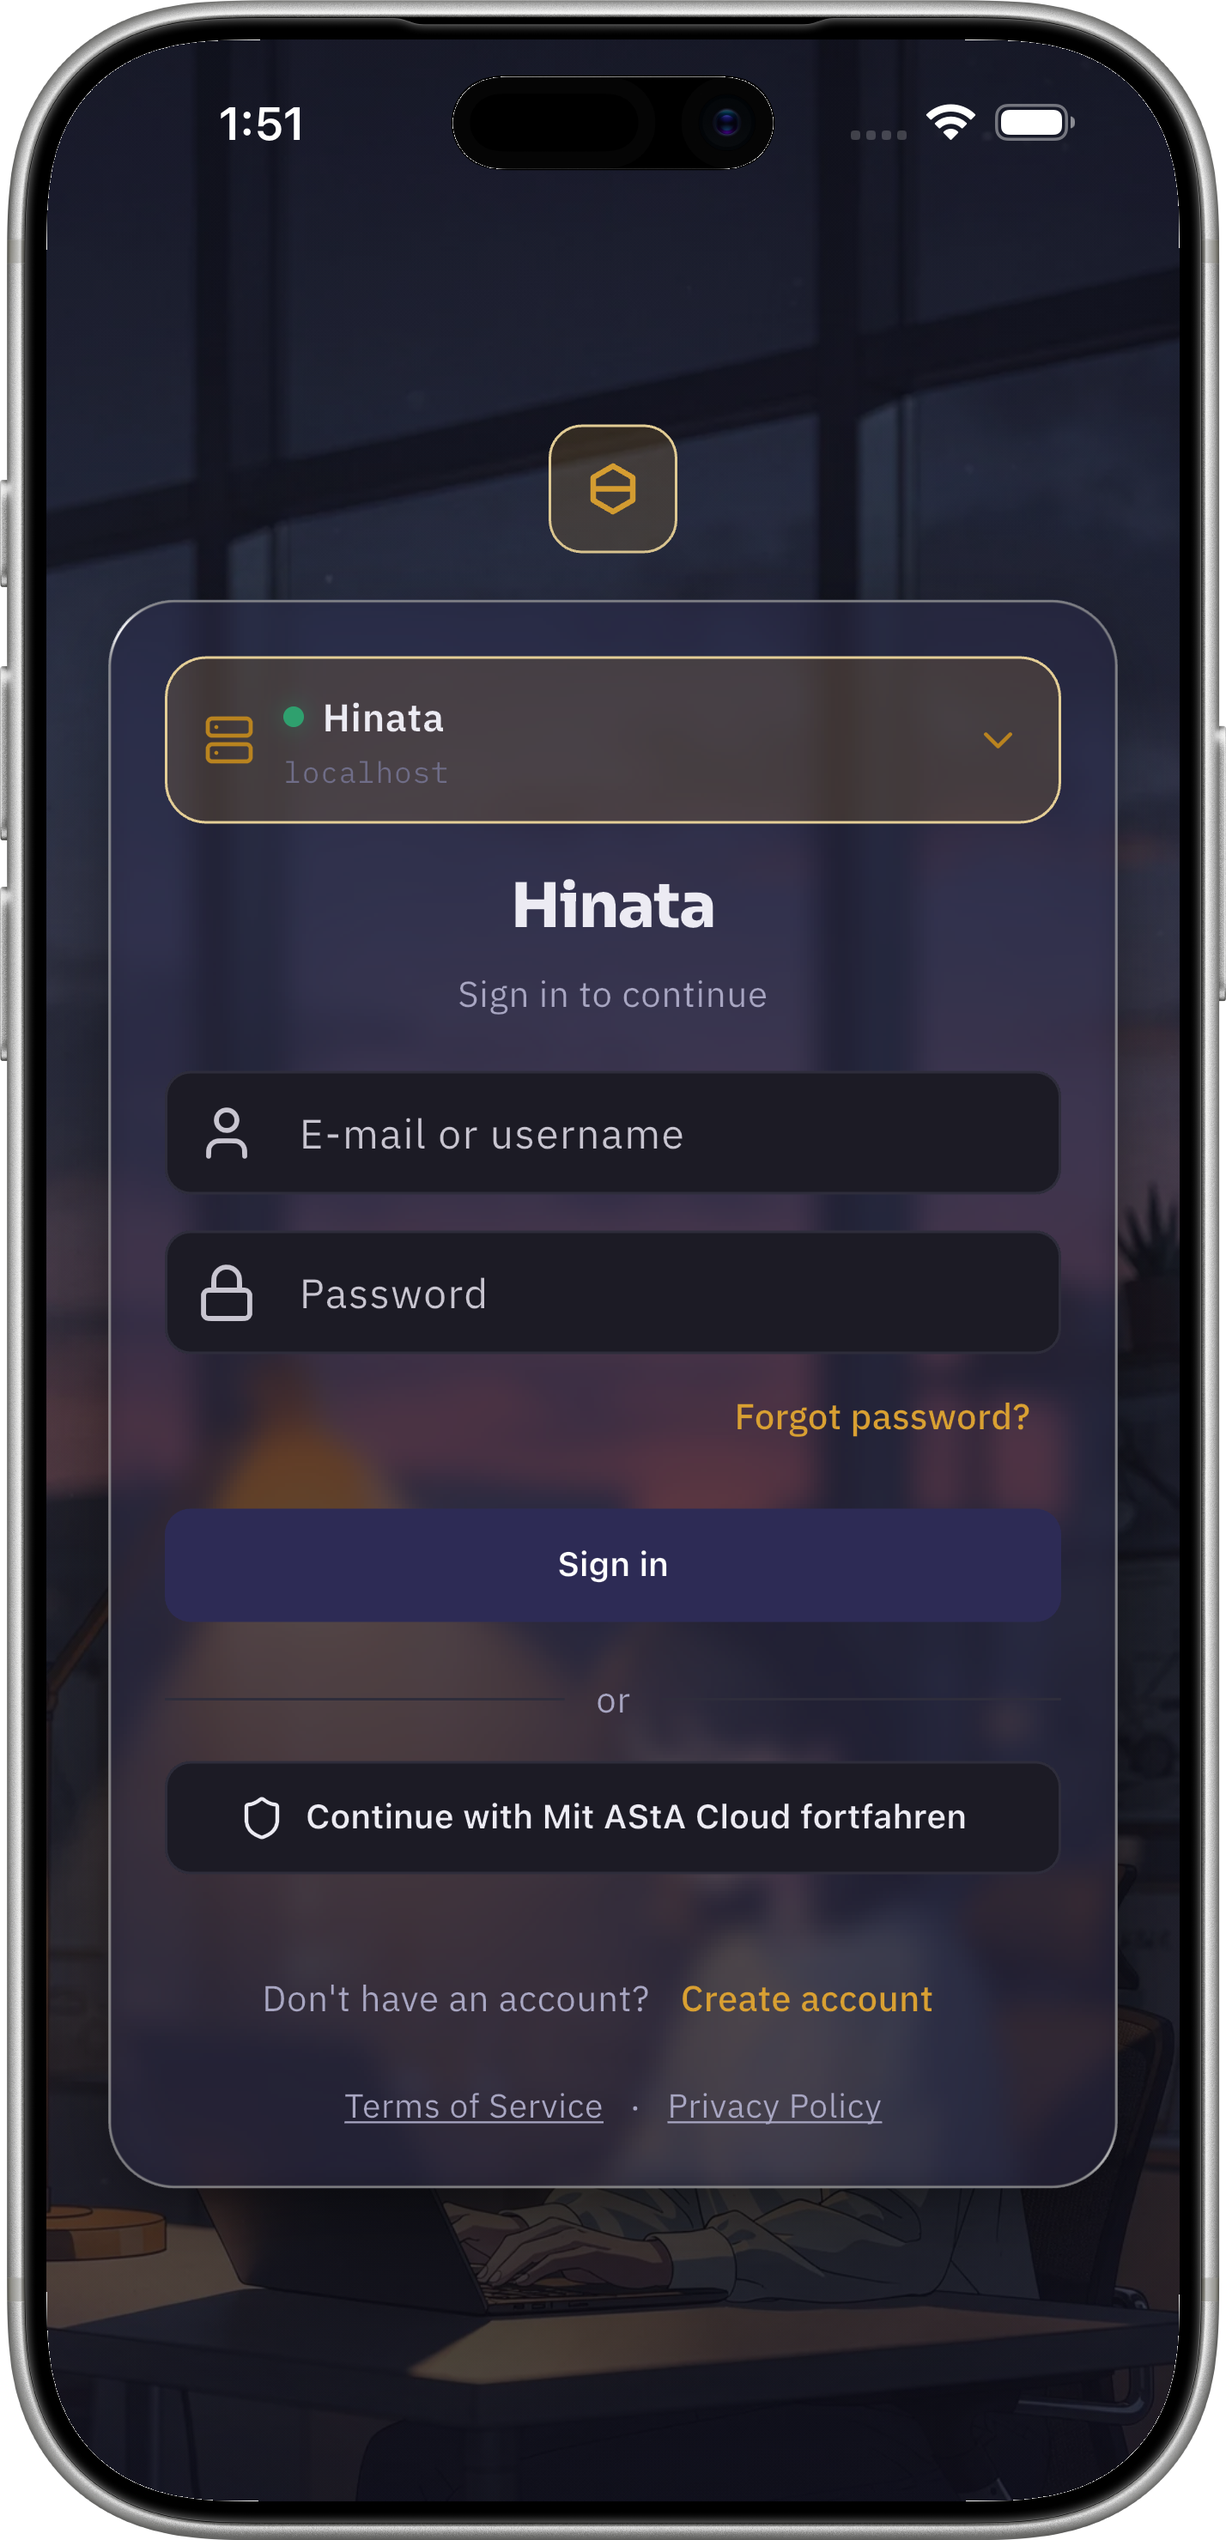
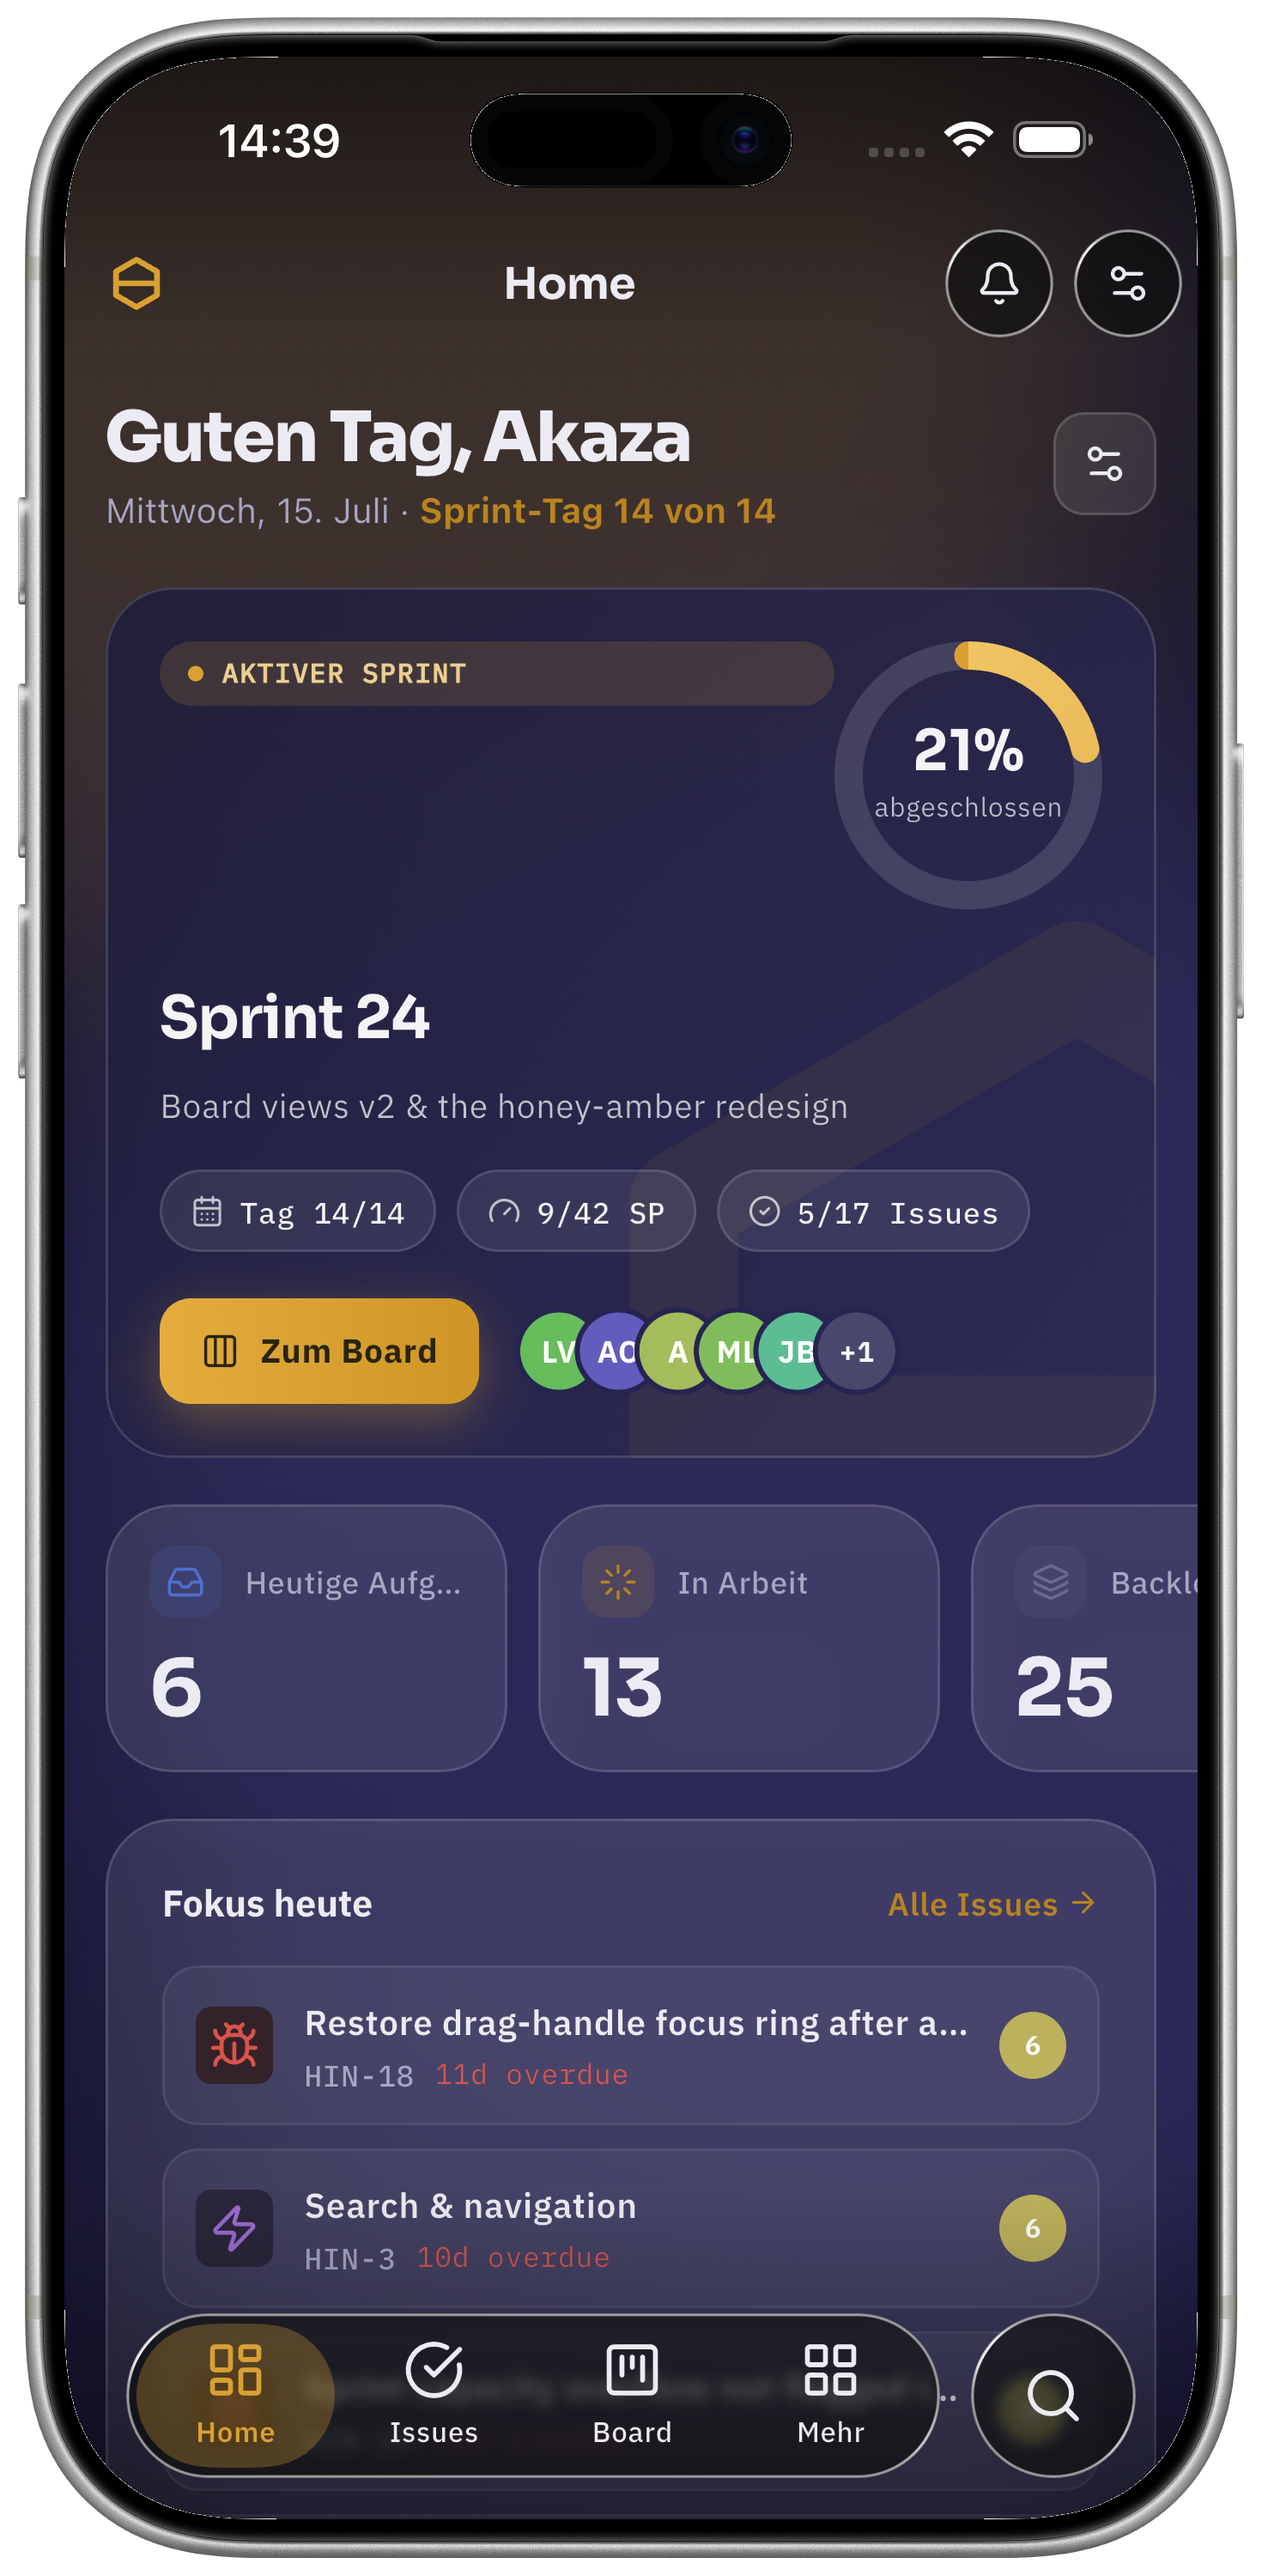
fix(tools): seed per-server token prefs and verify sign-in for iOS hero
The old global `flutter.access_token` / `flutter.refresh_token` keys are
only consumed by a one-time migration that the app skips once `servers.v1`
exists — meaning any simulator that had run the app before would boot to
the login screen instead of the dashboard, silently producing the wrong
hero frame.

Switch to per-server scoped keys (`flutter.<token>::<server_url>`) and
ensure the server appears in `flutter.servers.v1`. Add a read-receipt
check after the screenshot: AppStorage deletes the plaintext prefs copy
the moment it promotes tokens into the Keychain, so keys still present
after the app terminates means it never signed in. Fail loudly rather
than publish a login-screen frame.

diff --git a/tools/capture.py b/tools/capture.py
@@ -86,6 +86,13 @@ IOS_UDID = os.environ.get("IOS_UDID", "BD91470D-338D-48C6-856B-0821AE6A316B")
 IOS_BUNDLE = "com.ahmadre.hinata"
 IOS_SETTLE_S = int(os.environ.get("IOS_SETTLE_S", "13"))
 
+# SharedPreferences key names the app stores its session under, mirrored from
+# hinata-app lib/core/storage/app_storage.dart. Kept as constants because the
+# simulator hero seeds them and then reads them back to prove the app took the
+# session — both halves have to name the same key for either to mean anything.
+_K_ACCESS = "access_token"
+_K_REFRESH = "refresh_token"
+
 # Chromium launch flags for headless SwiftShader rendering of the Flutter web
 # canvas (shared by the per-page shots and the framed MacBook hero).
 _CHROMIUM_ARGS = [
@@ -571,11 +578,27 @@ def _sim(*args, **kw):
                           text=True, **kw)
 
 
+def _saved_servers(prefs):
+    """The simulator's saved-server list, as plain dicts. Anything unreadable
+    counts as no list — a malformed one is what the app itself falls back on,
+    and this is a screenshot device, not somewhere to salvage state."""
+    try:
+        parsed = json.loads(prefs.get("flutter.servers.v1") or "[]")
+    except (TypeError, ValueError):
+        return []
+    return [s for s in parsed if isinstance(s, dict) and s.get("url")]
+
+
 def iphone_hero_from_simulator(access, refresh):
     """iPhone hero from a REAL iPhone simulator screenshot — native status bar
     and Dynamic Island, no synthesized chrome. Same mechanics as
     hinata-app/tool/capture_ios.sh: seed the app sandbox plist with the server
-    URL + tokens + screenshot_route, launch, screenshot, then frame it.
+    URL + its tokens + screenshot_route, launch, screenshot, then frame it.
+
+    The shot is verified signed-in before it is written, because an app that
+    boots unauthenticated does not fail here — it hands back a perfectly sharp
+    screenshot of the *login* screen, which is exactly what went into the
+    landing page's hero frame the last time these keys drifted.
 
     Requires: the simulator booted (open -a Simulator) and the Hinata app
     installed on it. Fails loudly otherwise — we never fake this shot."""
@@ -608,14 +631,31 @@ def iphone_hero_from_simulator(access, refresh):
             prefs = plistlib.load(f)
     except Exception:
         prefs = {}
+    # Tokens are scoped per server and live in the Keychain, which no file here
+    # can write. The one door in is the plaintext prefs copy AppStorage lifts
+    # into the secret store at boot (see hinata-app
+    # lib/core/storage/app_storage.dart) — so seed the per-server keys, and the
+    # saved-server list they hang off, rather than the pre-multi-server globals
+    # `access_token`/`refresh_token`. Those are only ever read by a one-time
+    # migration that is skipped the moment `servers.v1` exists, i.e. on every
+    # simulator that has already run the app once.
+    server = API.rstrip("/")
+    access_key = f"flutter.{_K_ACCESS}::{server}"
+    refresh_key = f"flutter.{_K_REFRESH}::{server}"
+    saved = _saved_servers(prefs)
+    if not any(s.get("url") == server for s in saved):
+        saved.append({"url": server})
     prefs.update({
-        "flutter.server_url": API,
-        "flutter.access_token": access,
-        "flutter.refresh_token": refresh,
+        "flutter.server_url": server,
+        "flutter.servers.v1": json.dumps(saved),
+        access_key: access,
+        refresh_key: refresh,
         "flutter.onboarding_done": True,
         "flutter.locale": "en",
         "flutter.screenshot_route": "/dashboard",
     })
+    prefs.pop(f"flutter.{_K_ACCESS}", None)
+    prefs.pop(f"flutter.{_K_REFRESH}", None)
     with open(pl, "wb") as f:
         plistlib.dump(prefs, f, fmt=plistlib.FMT_BINARY)
 
@@ -628,10 +668,33 @@ def iphone_hero_from_simulator(access, refresh):
         r = _sim("io", IOS_UDID, "screenshot", "--type=png", raw)
         if r.returncode != 0:
             raise RuntimeError(f"simctl screenshot failed: {r.stderr.strip()}")
+        # The read receipt, checked before anything overwrites the hero on
+        # disk: AppStorage deletes the plaintext prefs token the instant it has
+        # moved it into the Keychain, so a key still sitting there means the
+        # keys above are not the ones the app reads any more — and the picture
+        # in hand is the sign-in screen. Terminate first so the app flushes,
+        # then stop cfprefsd so the file, not its cache, is what we read.
+        _sim("terminate", IOS_UDID, IOS_BUNDLE)
+        _sim("spawn", IOS_UDID, "launchctl", "stop",
+             "com.apple.cfprefsd.xpc.daemon")
+        time.sleep(1)
+        try:
+            with open(pl, "rb") as f:
+                after = plistlib.load(f)
+        except Exception:
+            after = {}
+        unread = [k for k in (access_key, refresh_key) if k in after]
+        if unread:
+            raise RuntimeError(
+                f"the app did not sign in on simulator {IOS_UDID[:8]}…: it left "
+                f"{', '.join(unread)} untouched in its prefs, so this screenshot "
+                f"is the login screen and is NOT being published. Re-check the "
+                f"token keys against hinata-app "
+                f"lib/core/storage/app_storage.dart."
+            )
         out = os.path.join(OUT_DIR, "frame-iphone.png")
         subprocess.run([sys.executable, DEVICE_FRAMES, "iphone", raw, out],
                        check=True)
-    _sim("terminate", IOS_UDID, IOS_BUNDLE)
     print(f"  ✓ {'frame-iphone.png':24} simulator {IOS_UDID[:8]}… /dashboard (framed, native)")
 
 
